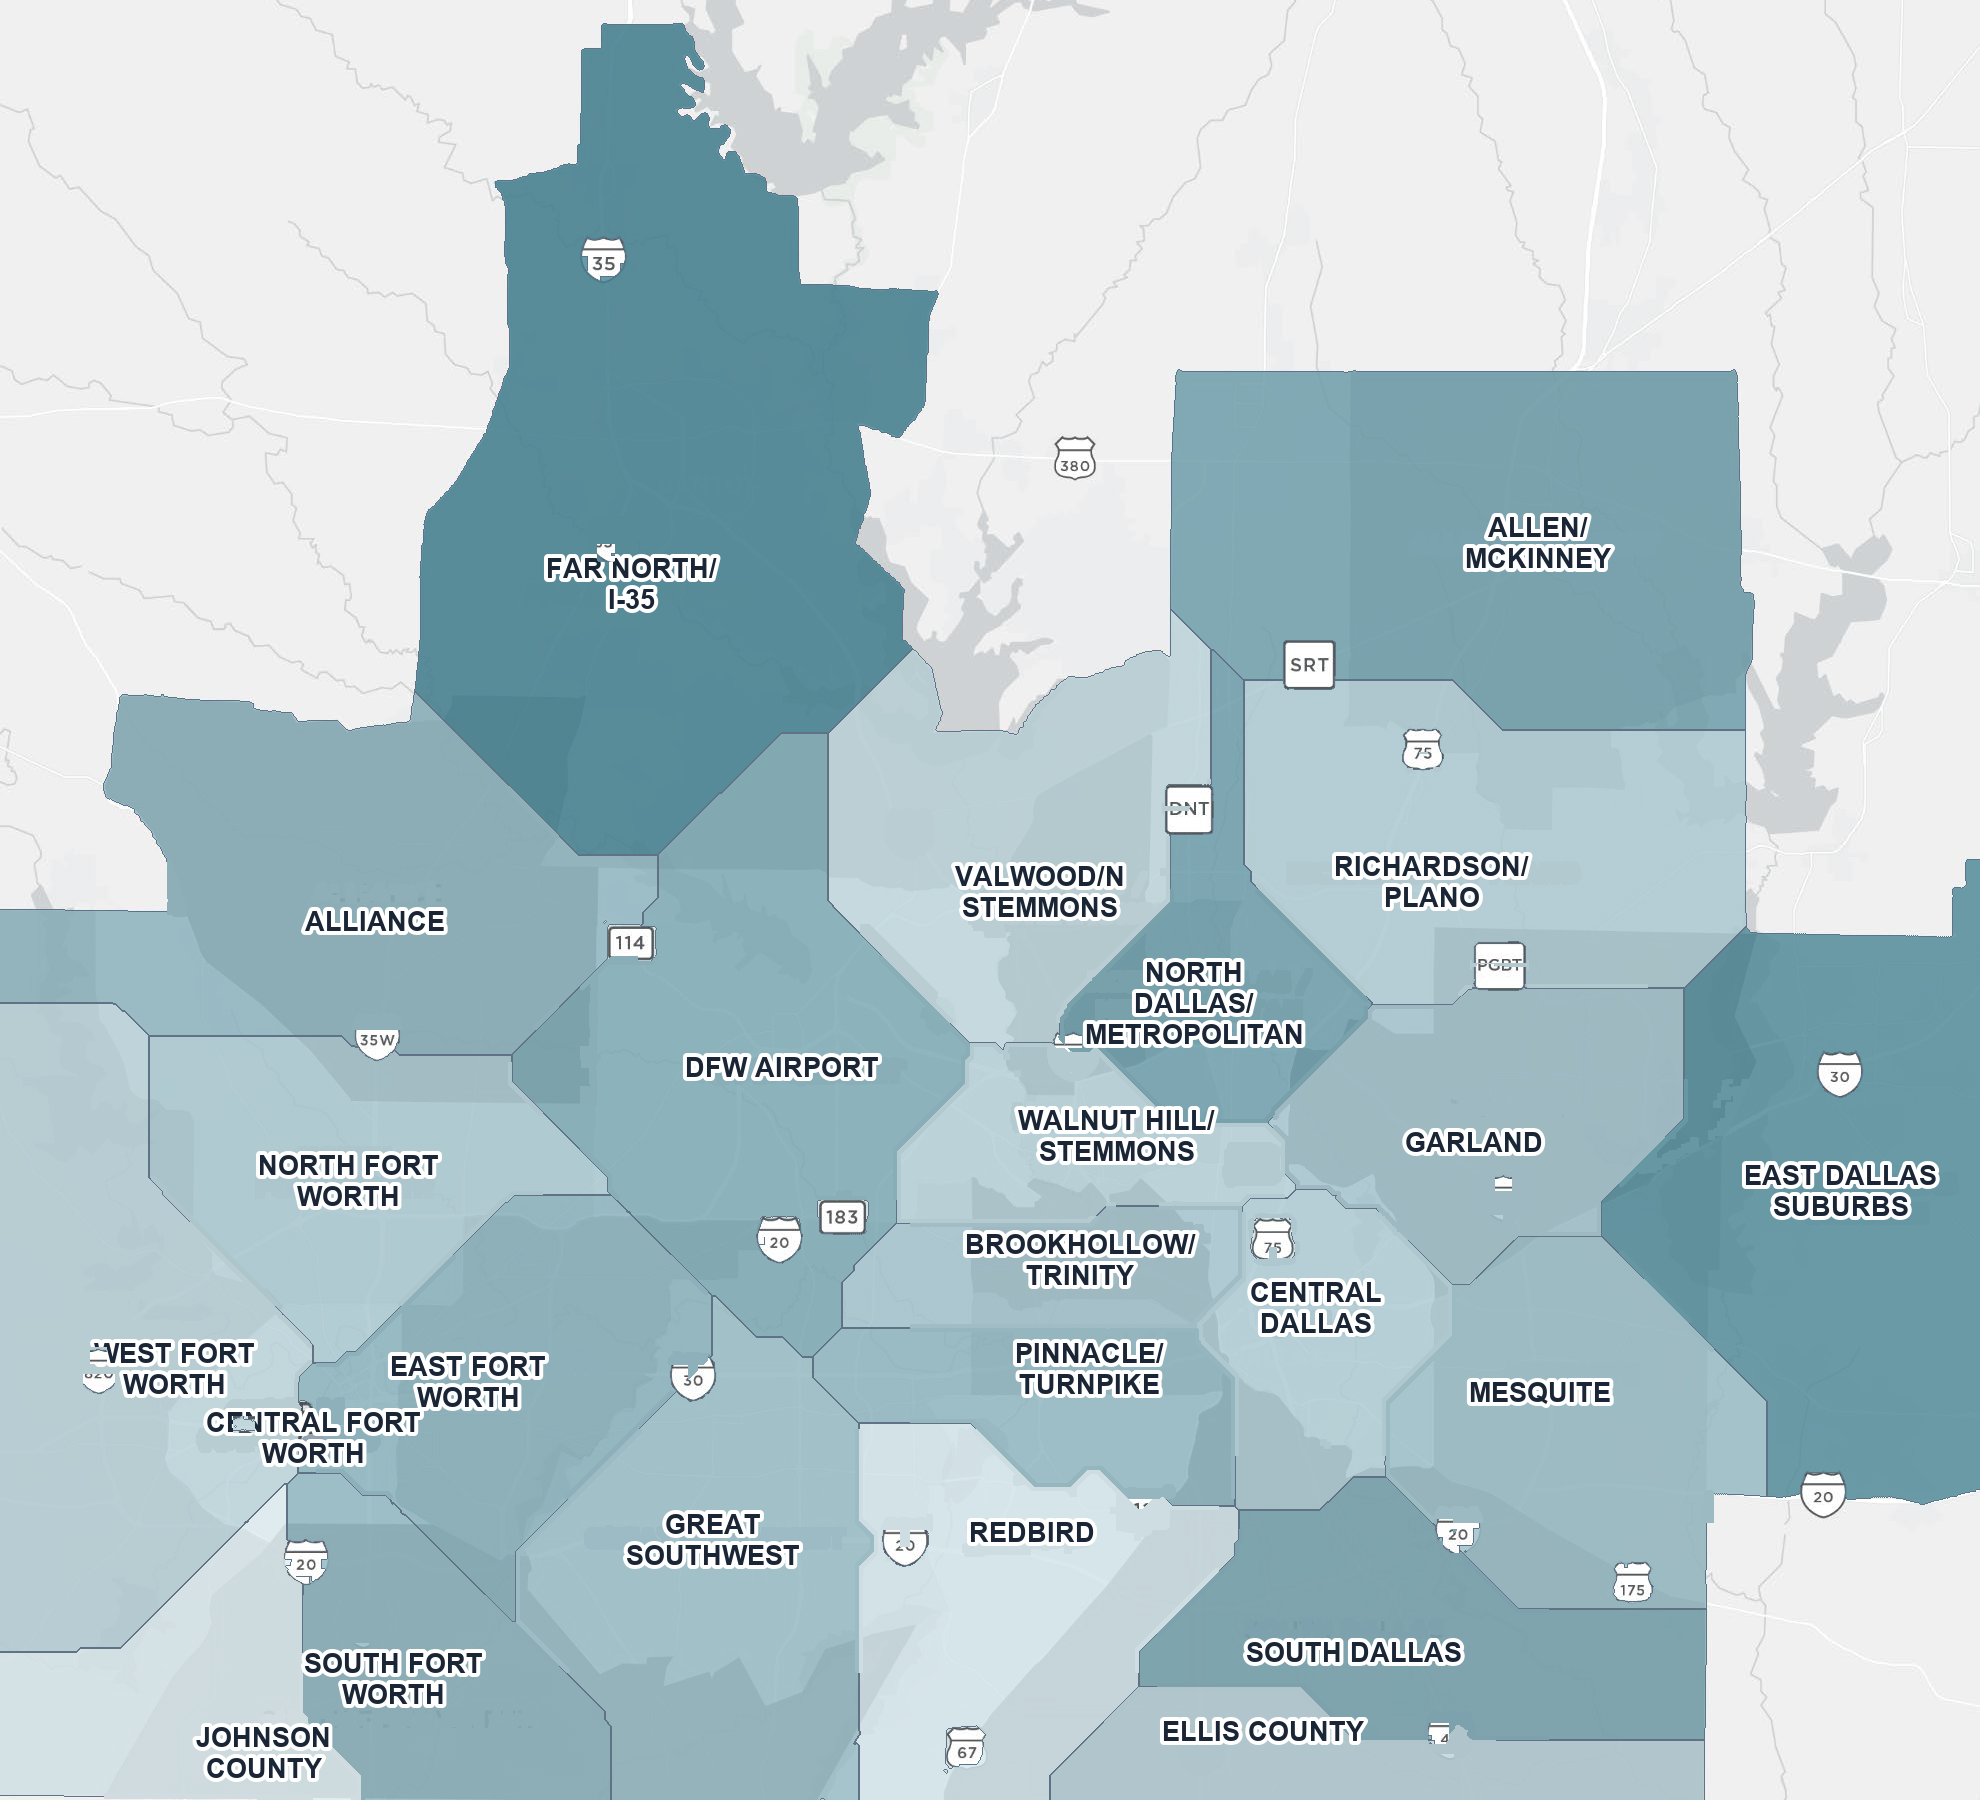
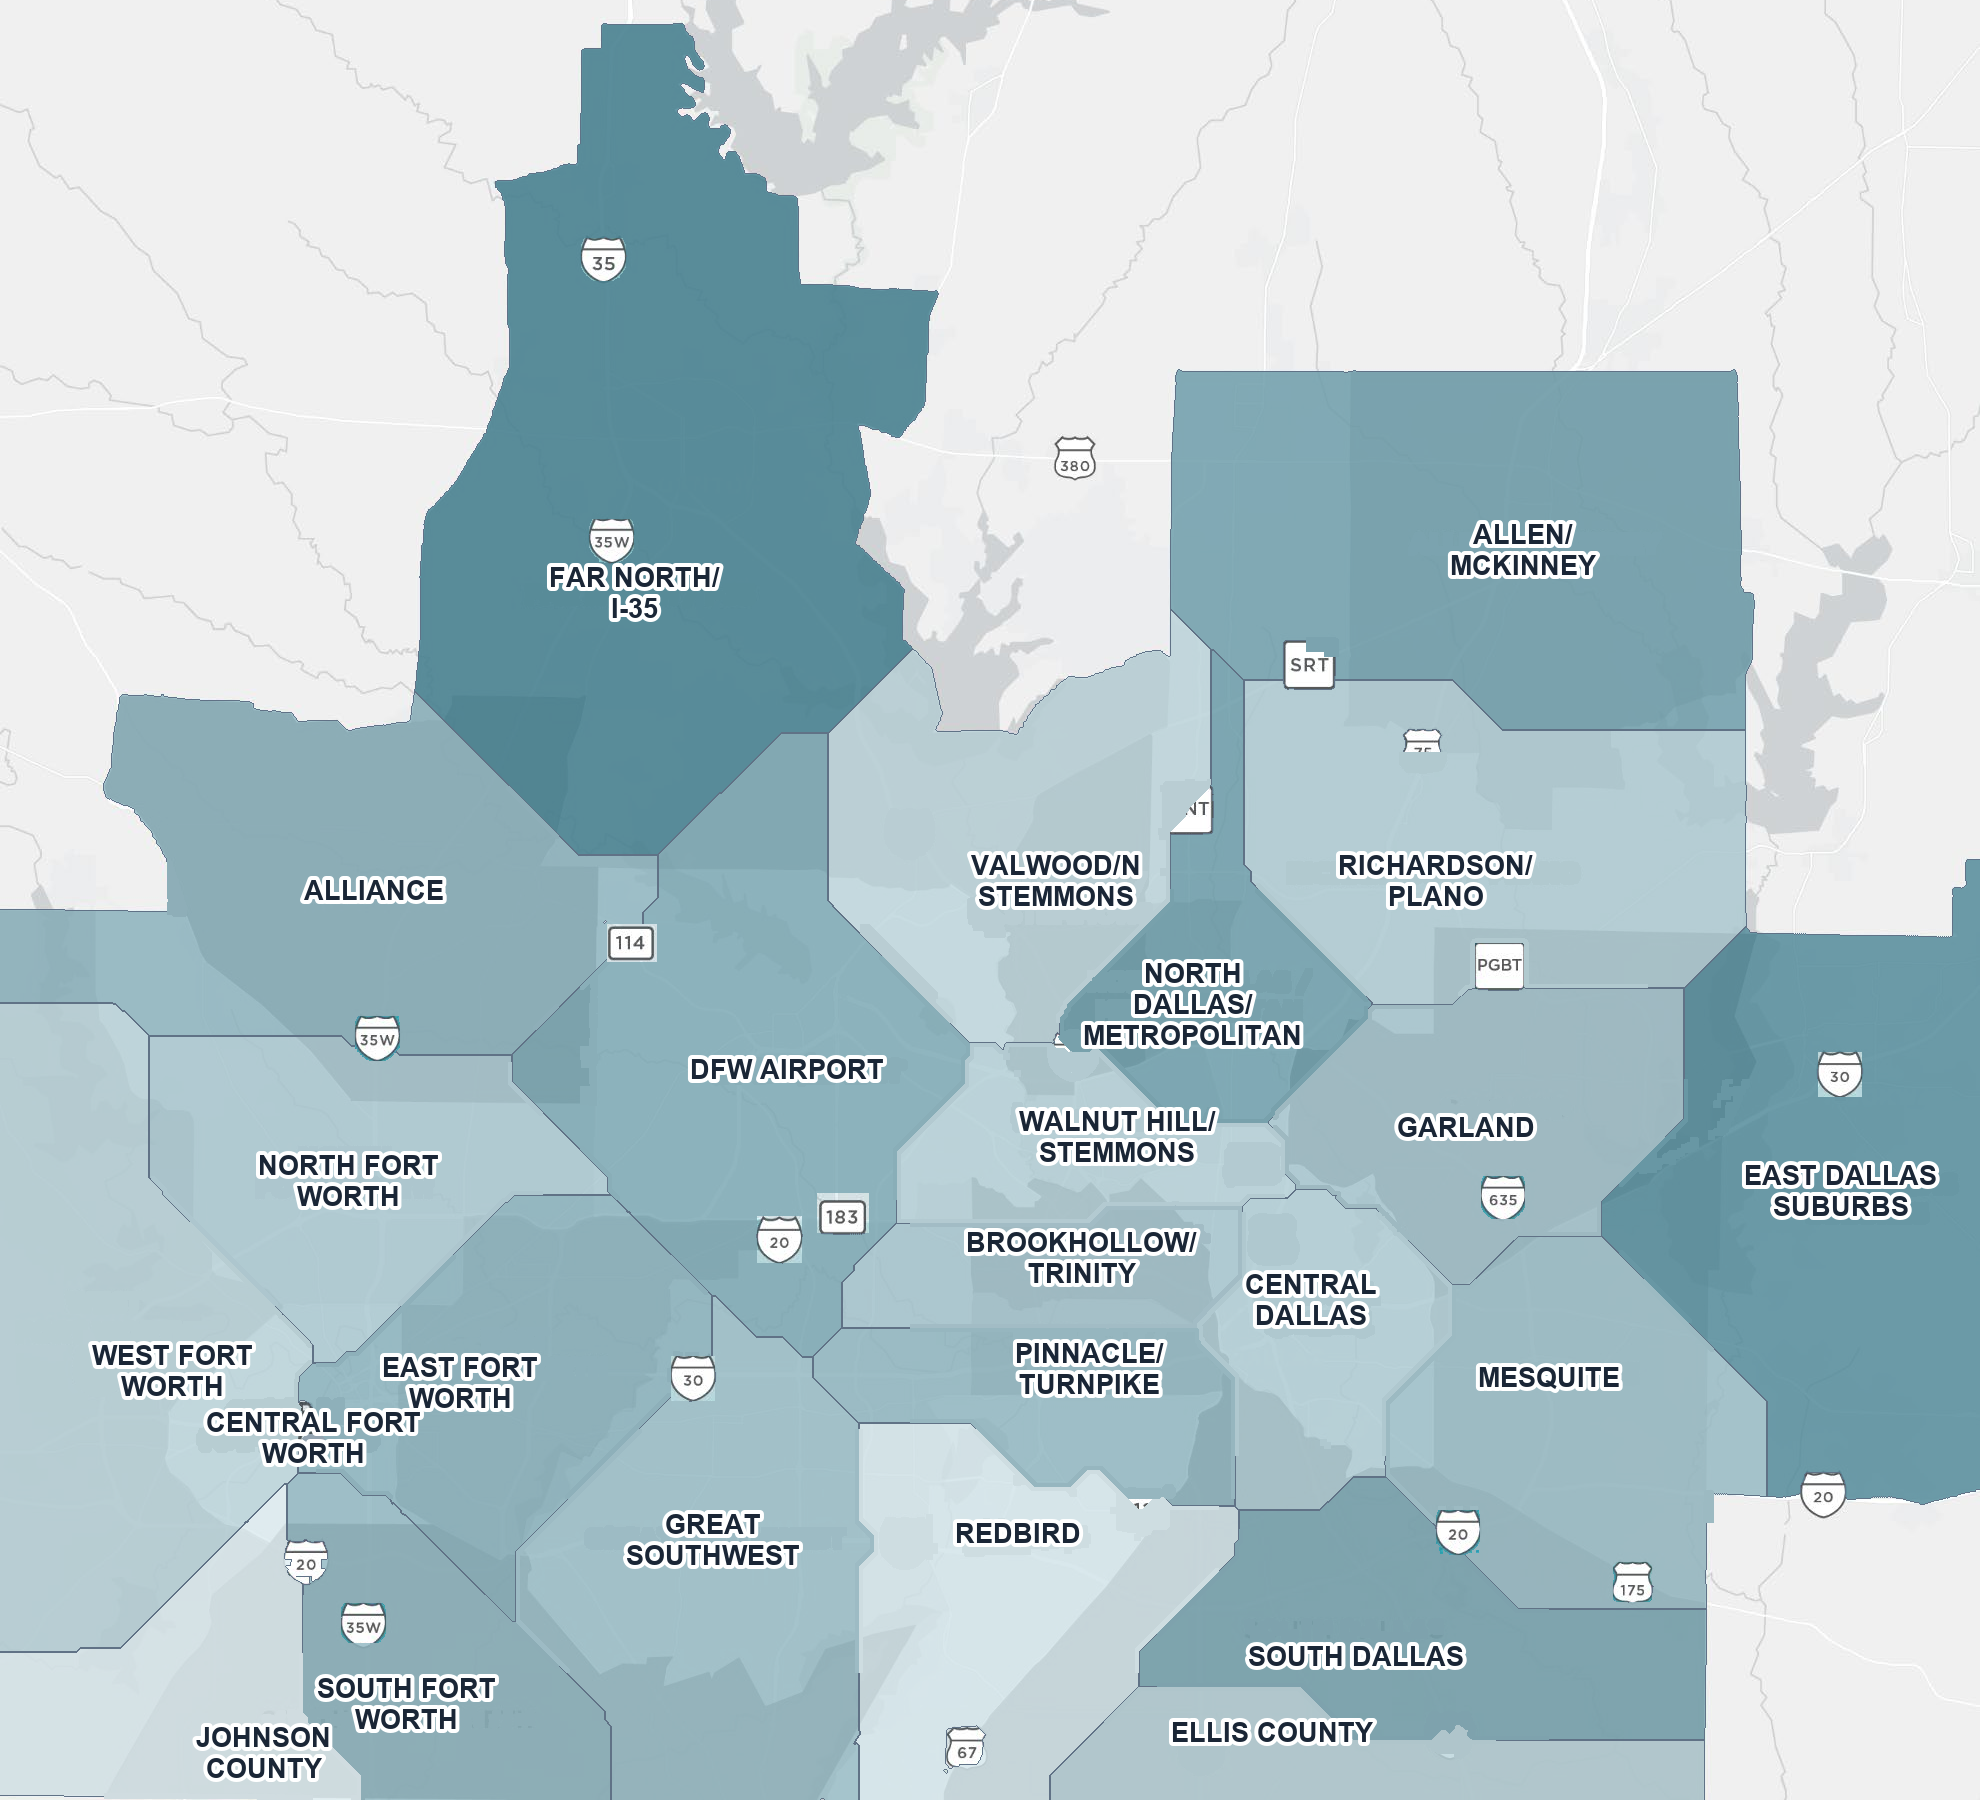
Submarket map: composite ALL signage pristine on top of the shading
Interstate/US shields and the tollway pills (SRT/DNT/PGBT/CTP) were getting
partially or fully covered by the vacancy shading. The old _shield_mask eroded
the white then blob-detected it, but a sign's dark route number splits its white
body so the erode pass fragments a shield and misses it.

Add _sign_mask: CLOSE the white (dilate→erode) so each sign is one solid blob,
keep the compact sign-sized blobs that carry a dark glyph (rejecting elongated
roads and wide submarket labels), and paste each sign's full graphic (white body
+ dark number/border) from the ORIGINAL map on top of everything — shading,
outlines and redrawn labels — as the final step. So no sign is ever covered.
Bonus: the Love Field airplane marker is preserved the same way.

Both sectors rebuilt; region-id grids unchanged (signs don't move region ids).

diff --git a/scripts/build_submarket_map.py b/scripts/build_submarket_map.py
@@ -301,7 +301,54 @@ def _shield_mask(out_arr):
                       .filter(ImageFilter.MaxFilter(17))) > 127   # dilate back + margin
 
 
-def _relabel(out_arr, lab, fl, seeds, names, W, H):
+def _sign_mask(out_arr, base):
+    """Mask of EVERY highway sign — interstate/US shields (35E, 635, 75, ...) and the tollway pills
+    (SRT/DNT/PGBT/CTP) — so each can be composited back PRISTINE and COMPLETE on top of the shading,
+    never partially covered. A sign is a compact, solid, white-bodied graphic with a dark route number;
+    that dark number splits the white body, so _shield_mask's erode-then-blob pass fragments a shield and
+    misses it. Here we instead CLOSE the white (dilate→erode) to bridge the number gap so each sign is one
+    solid blob, keep the compact sign-sized blobs that contain a dark glyph (rejecting elongated roads and
+    wide submarket labels), and return each sign's FULL graphic (white body + dark number/border) taken
+    from the ORIGINAL map so the paste is pristine."""
+    arr = out_arr.clip(0, 255).astype(np.uint8)
+    lum = arr.mean(axis=2)
+    rr, bb = arr[..., 0].astype(int), arr[..., 2].astype(int)
+    white = (lum > 188) & (np.abs(bb - rr) < 34)
+    closed = np.asarray(Image.fromarray((white * 255).astype(np.uint8))
+                        .filter(ImageFilter.MaxFilter(9)).filter(ImageFilter.MinFilter(9))) > 127
+    H, W = closed.shape
+    baselum = base.mean(axis=2)
+    mask = np.zeros((H, W), bool)
+    seen = np.zeros((H, W), bool)
+    for y0, x0 in zip(*np.where(closed)):
+        if seen[y0, x0]:
+            continue
+        comp, dq = [], deque([(y0, x0)])
+        seen[y0, x0] = True
+        minx = maxx = x0
+        miny = maxy = y0
+        while dq:
+            y, x = dq.popleft()
+            comp.append((y, x))
+            minx, maxx = min(minx, x), max(maxx, x)
+            miny, maxy = min(miny, y), max(maxy, y)
+            for ny, nx in ((y+1, x), (y-1, x), (y, x+1), (y, x-1)):
+                if 0 <= ny < H and 0 <= nx < W and closed[ny, nx] and not seen[ny, nx]:
+                    seen[ny, nx] = True
+                    dq.append((ny, nx))
+        w, h = maxx - minx + 1, maxy - miny + 1
+        fill = len(comp) / (w * h)
+        asp = max(w, h) / max(1, min(w, h))
+        sub = baselum[miny:maxy+1, minx:maxx+1]
+        darkfrac = float((sub < 125).mean())   # a sign carries a dark route number; a road blank does not
+        if 16 <= w <= 80 and 16 <= h <= 72 and asp < 2.4 and fill > 0.55 and 0.02 < darkfrac < 0.5:
+            # the sign's whole graphic inside its box: white body + dark number/border (skip mid-tone landuse)
+            mask[miny:maxy+1, minx:maxx+1] |= (sub > 185) | (sub < 125)
+    return np.asarray(Image.fromarray((mask * 255).astype(np.uint8))
+                      .filter(ImageFilter.MaxFilter(3))) > 127   # cover anti-aliased edges
+
+
+def _relabel(out_arr, base, lab, fl, seeds, names, W, H):
     """The baked-in JPEG labels go blurry once we recolor the regions underneath them.
     So erase each original label and re-draw the name SHARPLY with a clean white outline.
 
@@ -316,8 +363,9 @@ def _relabel(out_arr, lab, fl, seeds, names, W, H):
         if m.any():
             rc[i] = out_arr[m].mean(axis=0)
 
-    # Never erase a compact highway-sign pill (SRT / DNT / PGBT / interstate shields).
-    shield = _shield_mask(out_arr)
+    # Every highway sign (interstate/US shields + tollway pills) — protected from the label erase
+    # and composited back pristine on top at the end, so a sign is never partially or fully covered.
+    shield = _sign_mask(out_arr, base)
 
     BW, BH = 196, 122        # search window around each label centre
     centers = {}             # corrected label centre (dark-text centroid) for the redraw
@@ -363,11 +411,11 @@ def _relabel(out_arr, lab, fl, seeds, names, W, H):
                    stroke_width=4, stroke_fill=(255, 255, 255))
             ty += lh
 
-    # Put the highway signs back on TOP of everything — a redrawn label must never cover an
-    # interstate shield. out_arr still holds the pristine, un-tinted signs, so paste them over
-    # the finished canvas (labels included).
+    # Put the highway signs back on TOP of everything — the shading, the outlines and the redrawn
+    # labels. Paste from the ORIGINAL map so each sign is its full pristine graphic, never a version
+    # the fill has tinted at the edges.
     cv = np.asarray(canvas).copy()
-    cv[shield] = out_arr[shield].clip(0, 255).astype(np.uint8)
+    cv[shield] = base[shield].clip(0, 255).astype(np.uint8)
     return Image.fromarray(cv)
 
 
@@ -459,7 +507,7 @@ def build(sector: str) -> None:
     #     and re-DRAW it sharply at the same spot with a clean white outline. The erase is
     #     clipped to each label's own region (fl) so it never bleeds into a neighbour. ---
     fl = _fill_regions(lab)
-    img = _relabel(out_arr, lab, fl, seeds, names, W, H)
+    img = _relabel(out_arr, base, lab, fl, seeds, names, W, H)
     idmap = lab
 
     # Crop to the coloured metro so there's no wasted grey basemap around it — the map fills
